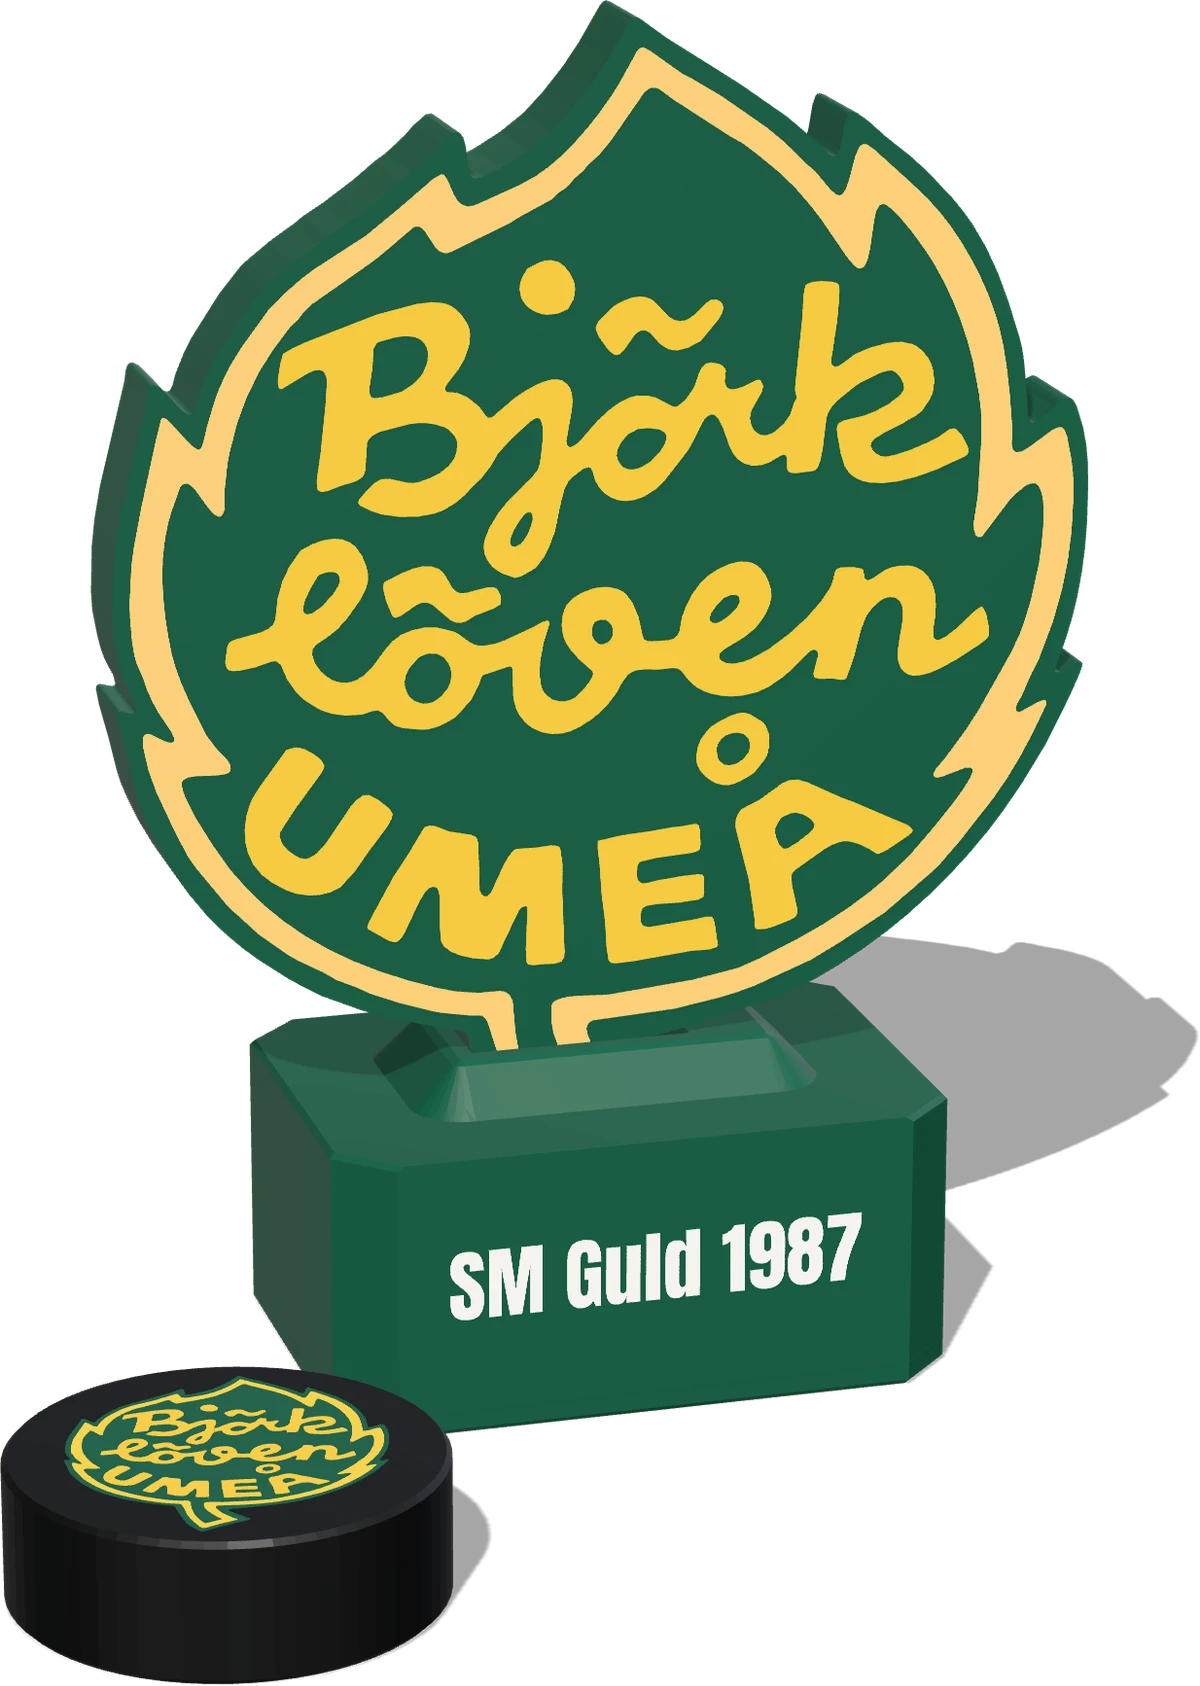
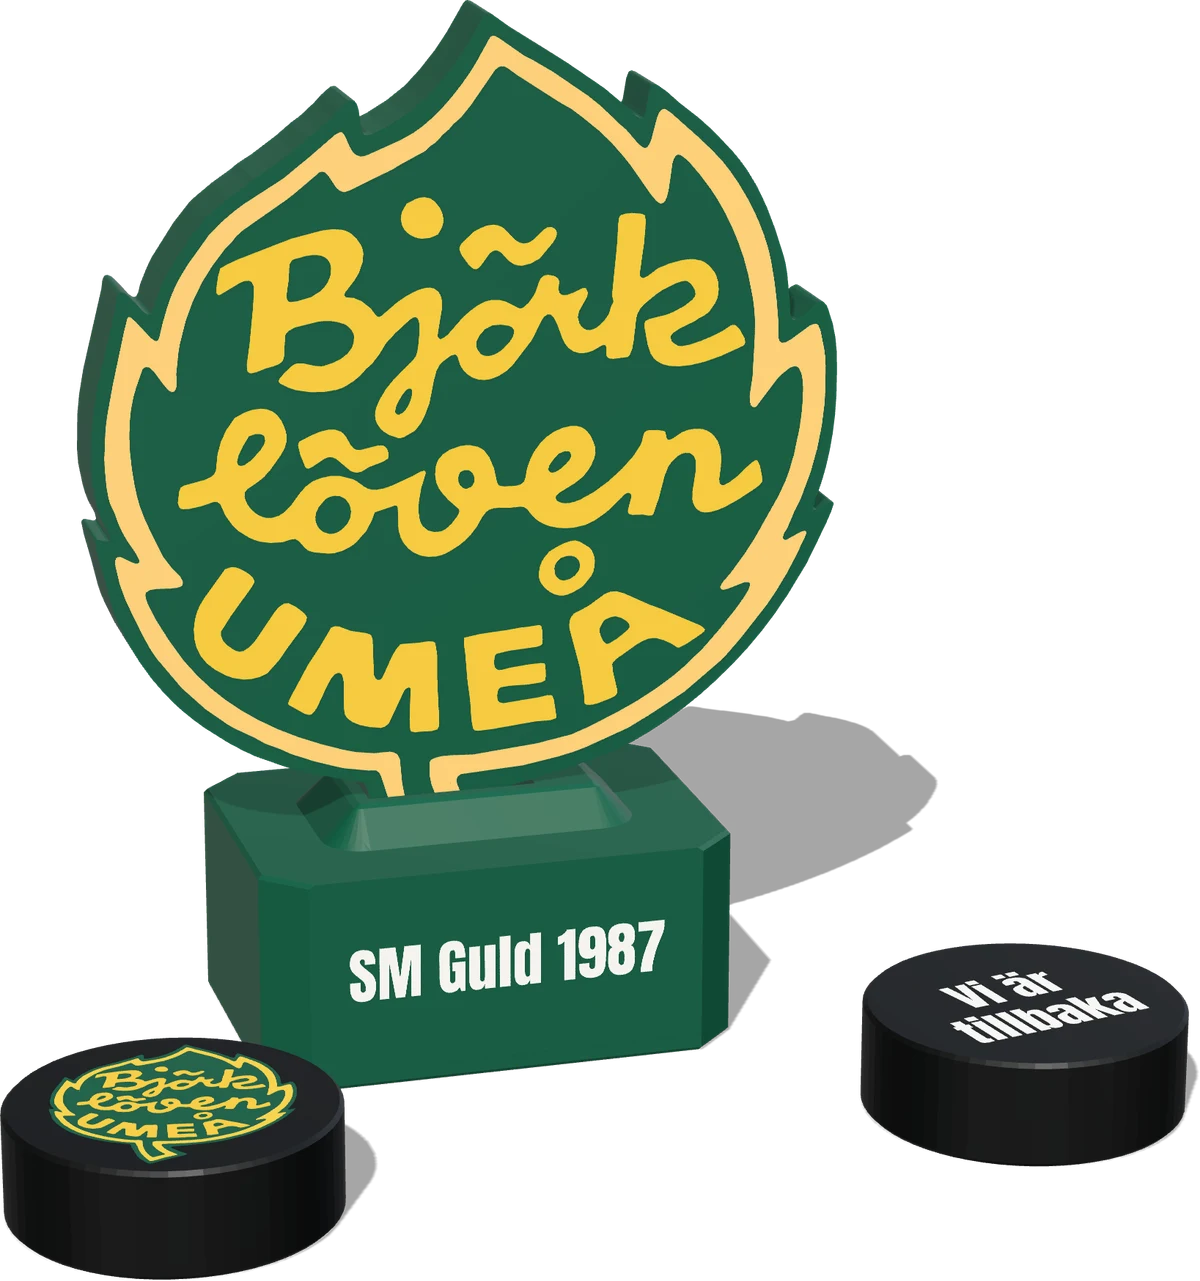
Bottenplattan som eget objekt, och pucken från båda sidor
Monteringsguiden och utskriftssidan säger nu att bottenplattan dras in
för sig, inte som en del av sockeln, och vilka filer som hör ihop på
varje platta.

Puckbilden visar en andra puck med undersidan uppåt, så att både lövet
och "Vi är tillbaka" syns.

Claude-Session: https://claude.ai/code/session_01UyvRJvkGs58xyAgKqi7E8i

diff --git a/site/skriv-ut.html b/site/skriv-ut.html
@@ -313,7 +313,7 @@ dl[style*="width: 1280px"], ul[style*="width: 1280px"], ol[style*="width: 1280px
             <span style="width: 6px; height: 26px; background: #1c5f45;"></span>
             <h2 style="font-family: Antonio, sans-serif; font-weight: 700; font-size: 56px; line-height: 1; text-transform: uppercase;">1. Skriv ut plattorna</h2>
           </div>
-          <p style="font-size: 20px; line-height: 1.45; max-width: 720px; color: rgba(255,255,255,0.85);">STL-filerna är sorterade per platta och exporterade i gemensam position. Dra in dem i slicern tillsammans, svara ja på ”ett objekt med flera delar” och rotera ingenting.</p>
+          <p style="font-size: 20px; line-height: 1.45; max-width: 720px; color: rgba(255,255,255,0.85);">STL-filerna är sorterade per platta och exporterade i gemensam position. Filerna som hör till samma föremål dras in tillsammans, och du svarar ja på ”ett objekt med flera delar”: lövets fyra filer på platta 1, luckan och konturen på platta 2, sockeln och sockeltexten på platta 3. Bottenplattan är ett eget objekt bredvid sockeln. Rotera ingenting.</p>
         </div>
         <a class="btn btn-gold" href="https://github.com/markusbackman/lovglod/tree/main/hardware/v2" style="padding: 18px 32px; font-size: 18px; min-height: 64px; flex-shrink: 0;">
           <svg width="18" height="18" viewBox="0 0 24 24" fill="none" stroke="currentColor" stroke-width="2.5" stroke-linecap="square" aria-hidden="true"><path d="M12 3v13M6 10l6 6 6-6M4 21h16"/></svg>
@@ -399,7 +399,7 @@ dl[style*="width: 1280px"], ul[style*="width: 1280px"], ol[style*="width: 1280px
             </div>
             <div style="padding: 24px 20px; display: flex; flex-direction: column; gap: 16px; flex-grow: 1;">
               <h3 style="font-family: Antonio, sans-serif; font-weight: 700; font-size: 32px; line-height: 1.05;">Sockeln</h3>
-              <p style="font-size: 15px; line-height: 1.45; color: rgba(255,255,255,0.8);">Sockel och text som ett objekt, bottenplattan bredvid.</p>
+              <p style="font-size: 15px; line-height: 1.45; color: rgba(255,255,255,0.8);">Sockeln och sockeltexten tillsammans, som ett objekt. Bottenplattan för sig, som ett eget objekt bredvid.</p>
               <ul style="list-style: none; margin: 0; padding: 0; display: flex; flex-direction: column; gap: 8px; flex-grow: 1;">
                 
                   <li style="display: flex; align-items: center; gap: 10px; font-size: 14px;">
@@ -482,7 +482,7 @@ dl[style*="width: 1280px"], ul[style*="width: 1280px"], ol[style*="width: 1280px
   <!-- PUCKEN -->
   <section id="pucken" style="background: #f7f7f7; display: flex; justify-content: center; padding: 120px 0;">
     <div style="width: 1280px; display: grid; grid-template-columns: 640px minmax(0, 1fr); gap: 80px; align-items: center;">
-      <img src="assets/puck.webp" alt="LövGlöd tänd, med en svart puck liggande bredvid sockeln. Pucken har Björklövens löv i grönt, gult och vitt." style="width: 640px; height: auto;">
+      <img src="assets/puck.webp" alt="LövGlöd tänd, med två svarta puckar liggande bredvid sockeln. Den ena visar Björklövens löv i grönt och gult, den andra undersidan med Vi är tillbaka i vitt." style="width: 640px; height: auto;">
       <div style="display: flex; flex-direction: column; gap: 28px;">
         <div style="display: flex; flex-direction: column; gap: 16px;">
           <p style="font-size: 14px; font-weight: 700; text-transform: uppercase; letter-spacing: 0.1em; color: #124734;">Platta 4 · valfri</p>

diff --git a/tools/render/scene.html b/tools/render/scene.html
@@ -140,11 +140,21 @@ if (view === 'hero') parts.push(
   // "Vi är / tillbaka" är vit i hjältebilden, oavsett lövets textfärg.
   ['bjorkloven_puck_letters', WHITE,       PUCK_UP],
 );
+// En andra puck ligger med undersidan uppåt, alltså "Vi är / tillbaka" mot
+// taket, så att båda sidorna syns. Filens text läses rätt från +z med +y bort
+// från läsaren; ett halvt varv kring z vänder den mot kameran. Texten är vit,
+// som i hjältebilden.
+const PUCK_BACK = new THREE.Matrix4().makeTranslation(-112, 92, 0)
+  .multiply(new THREE.Matrix4().makeRotationZ(Math.PI + THREE.MathUtils.degToRad(12)));
 if (view === 'puck') parts.push(
   ['bjorkloven_puck',         BLACK,       PUCK],
   ['bjorkloven_puck_green',   GREEN,       PUCK],
   ['bjorkloven_puck_window',  PUCK_YELLOW, PUCK],
   ['bjorkloven_puck_letters', LETTERS,     PUCK],
+  ['bjorkloven_puck',         BLACK,       PUCK_BACK],
+  ['bjorkloven_puck_green',   GREEN,       PUCK_BACK],
+  ['bjorkloven_puck_window',  PUCK_YELLOW, PUCK_BACK],
+  ['bjorkloven_puck_letters', WHITE,       PUCK_BACK],
 );
 
 const loader = new STLLoader();

diff --git a/docs/MONTERA.md b/docs/MONTERA.md
@@ -113,7 +113,8 @@ Dra in `bjorkloven_base.stl` och `bjorkloven_base_letters.stl` **samtidigt**, so
 ett objekt med flera delar. Grönt för sockeln, vitt för texten. Vitt finns bara
 i första millimetern, så färgbytena är få.
 
-`bjorkloven_plate.stl` i grönt på samma platta, bredvid. Rotera inte den heller:
+`bjorkloven_plate.stl` i grönt på samma platta, bredvid. Dra in den **för sig**, som
+ett eget objekt, inte som en del av sockeln. Rotera inte den heller:
 "LövGlöd / V2" och skruvhuvudenas försänkningar ska vara uppåt vid utskrift.
 
 ### Valfritt — platta 4, pucken
